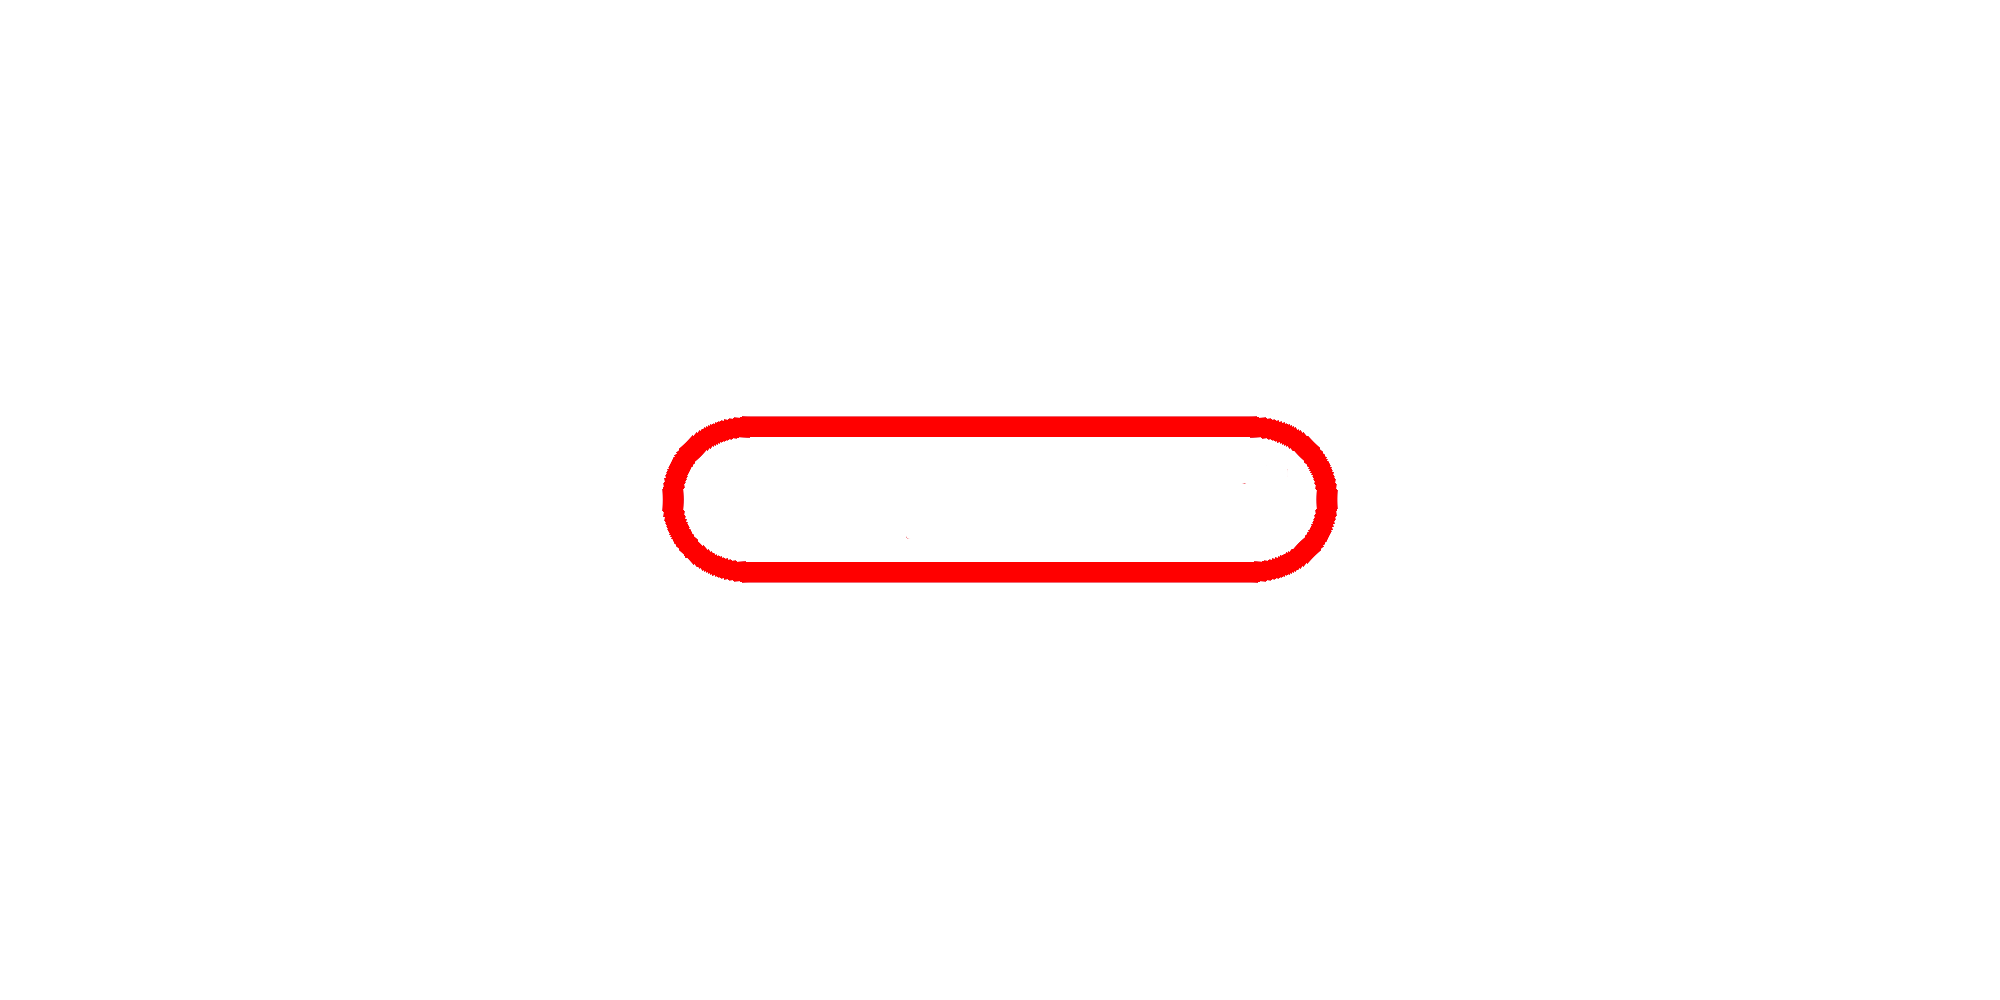
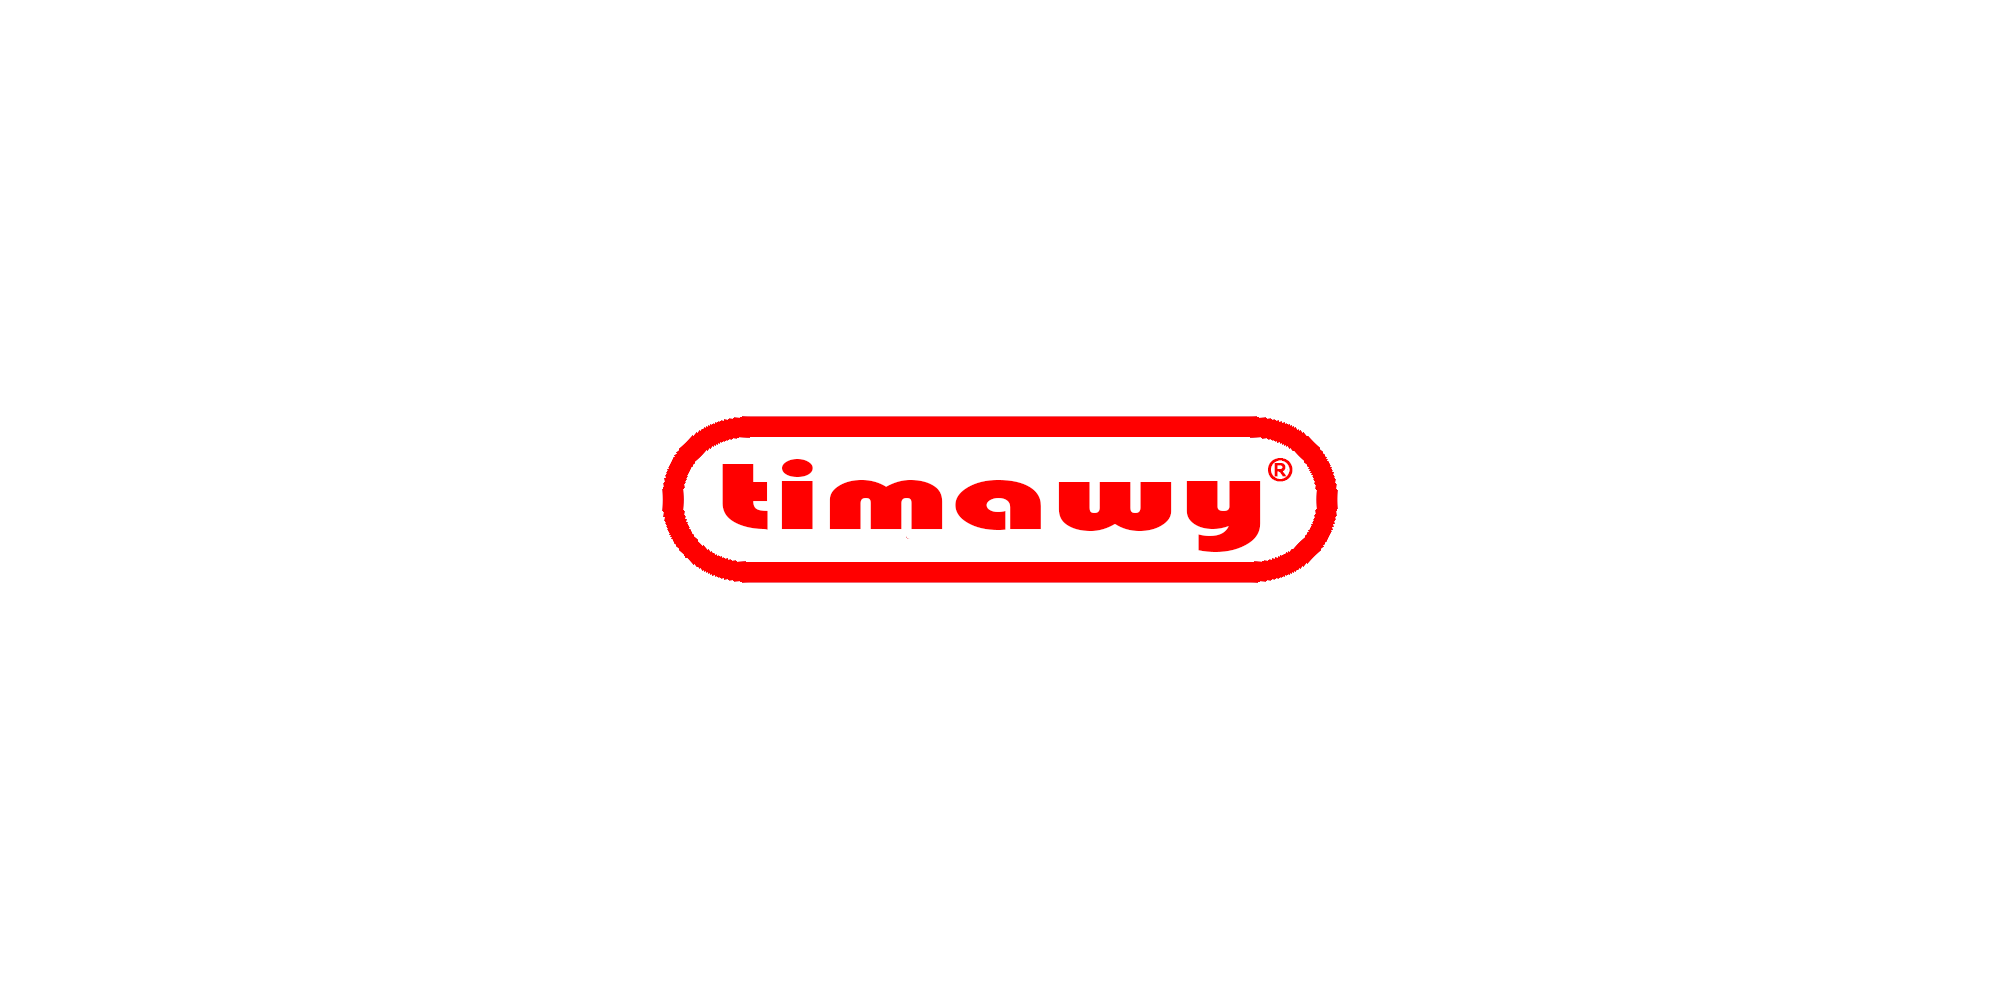
Ajout musique/image MAIN
modif dans le jeu

Changed region(s): [[0.341, 0.465, 0.651, 0.558]]

diff --git a/MAIN.py b/MAIN.py
@@ -1,11 +1,12 @@
 #Code principal jeu
+from constantes import *
 from Fonction import *
+from menu import *
 from Map import *
 import pygame
 import random
 import time
-from menu import *
-from constantes import *
+
 # Initialisation Jeu
 pygame.init()
 
@@ -15,7 +16,7 @@ pygame.display.set_caption("L'épopée_de_Lynk.exe")
 
 objet = lecture_objet()
 
-# lecture de l'image du perso
+# Image Personnages
 perso = perso(objet["perso_stand_bas"],fenetre)
 perso.rect.x = 60
 perso.rect.y = 80
@@ -23,18 +24,21 @@ perso.rect.y = 80
 # Appel horloge
 temps=pygame.time.Clock()
 
+#Définition musique
+#sonJEU=pygame.mixer.Sound("Source/Musique_&_Son/Village.ogg")
+
 #Definition de l'etat
-Menu, enJeu = 1,0
 i=0
 Play=True
+Intro,Menu, enJeu = 1,0,0
 
 
-
+#Boucle jeu
 while Play:
 
-	temps.tick(30)
-	print(i)
 	i+=1
+	#print(i)
+	temps.tick(30)
 
 	# Lecture clavier
 	touches=pygame.key.get_pressed();
@@ -46,6 +50,19 @@ while Play:
 			Play=False
 	pass
 
+	###########################
+	###########INTRO############
+	###########################
+
+
+	if Intro:
+		intro_background.afficher()
+
+		if i>=55:
+			Intro = 0
+			Menu = 1
+			pygame.display.flip()
+		pygame.display.flip()
 
 	###########################
 	###########MENU############
@@ -69,12 +86,13 @@ while Play:
 	############################
 
 	if enJeu:
-		# rafraichissement
+		#Musique 
+		#sonJEU.play()
 		menu_background.afficher() #Background temporaire pour voir la diff entre menu et enJeu
 		perso.afficher(touches)
 		perso.deplacement_perso(touches)
+		# rafraichissement
 		pygame.display.flip()
-
 
 
 

diff --git a/menu.py b/menu.py
@@ -3,6 +3,11 @@ from Fonction import *
 from Map import *
 from constantes import *
 
+#CREATION DE L'IMAGE D'INTRO
+background_intro = pygame.image.load("Source/Écran/TiMaWy.png").convert_alpha()
+background_intro = pygame.transform.scale(background_intro, (largeur,hauteur))
+intro_background = elementgraphique(background_intro, fenetre)
+
 #CREATION DE L'IMAGE DE FOND
 background_img = pygame.image.load("MENU/Menu.png").convert_alpha()
 background_img = pygame.transform.scale(background_img, (largeur,hauteur))
